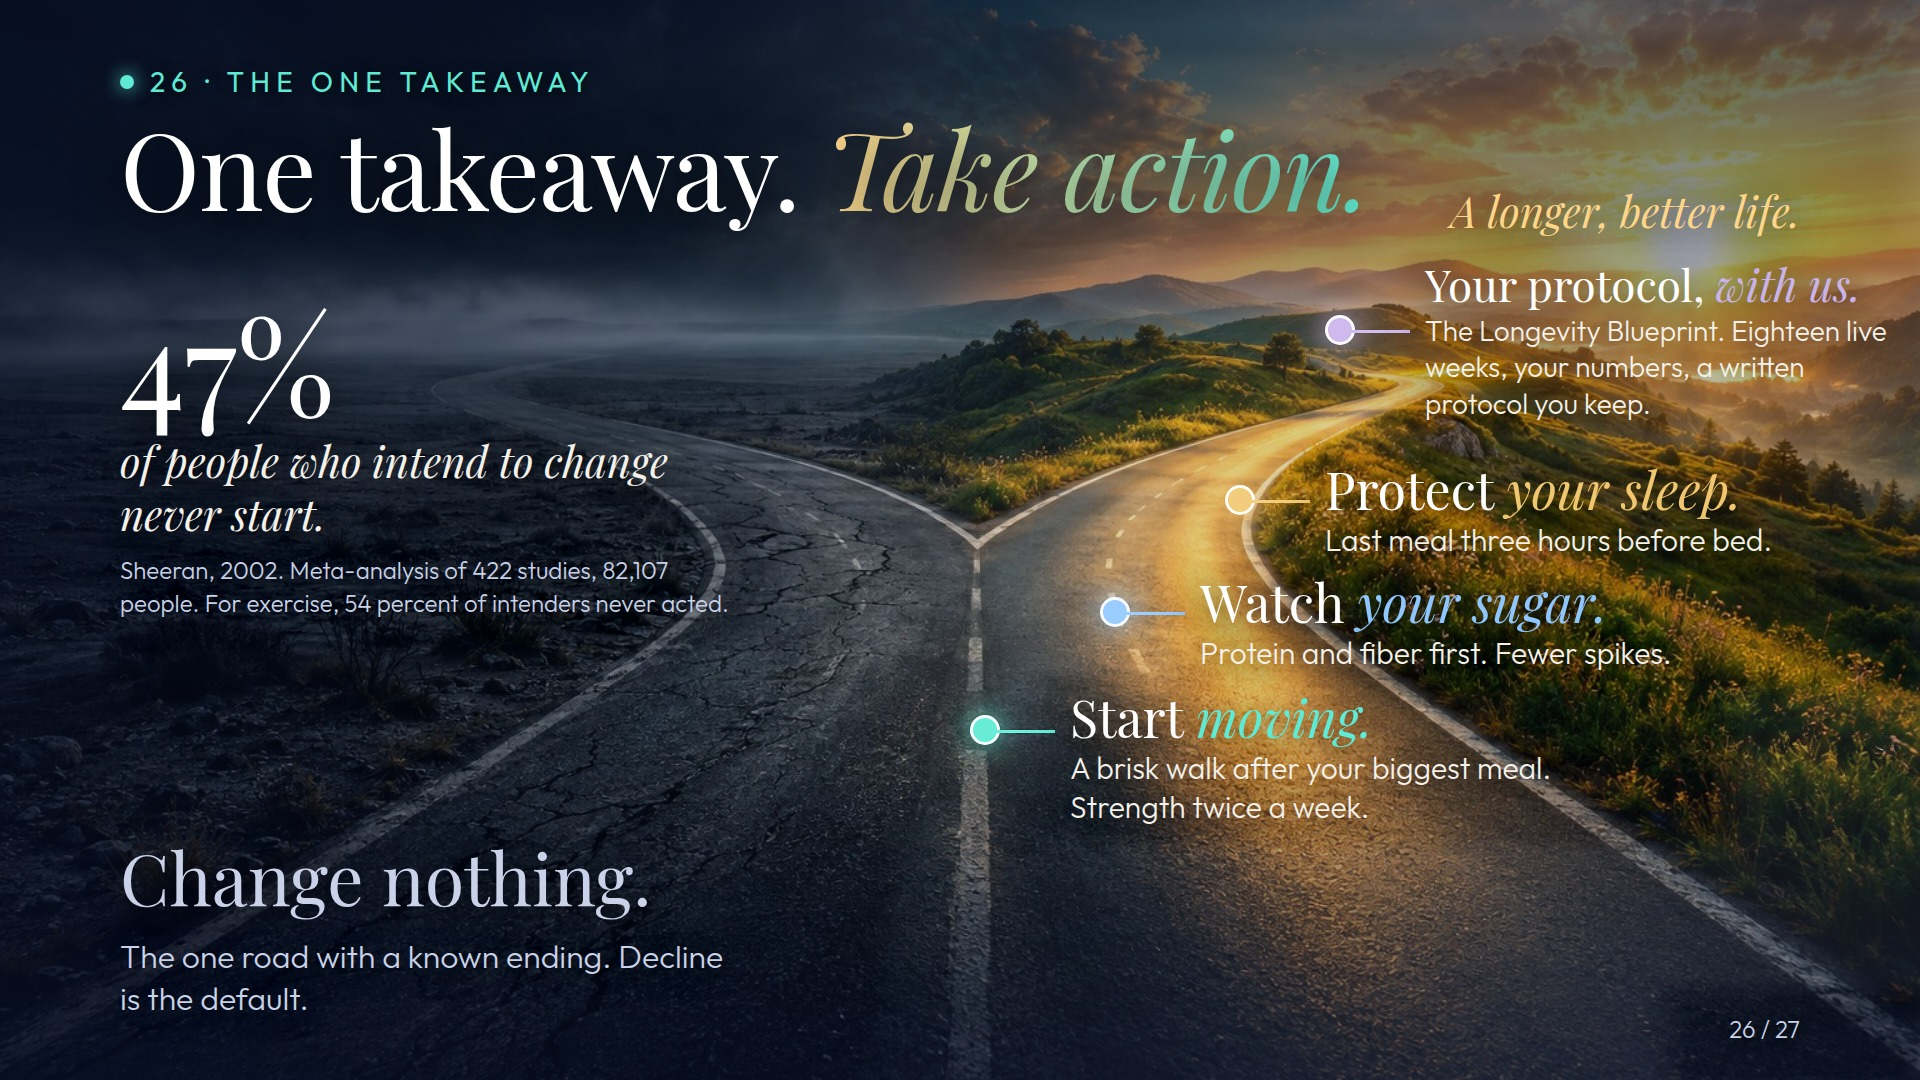
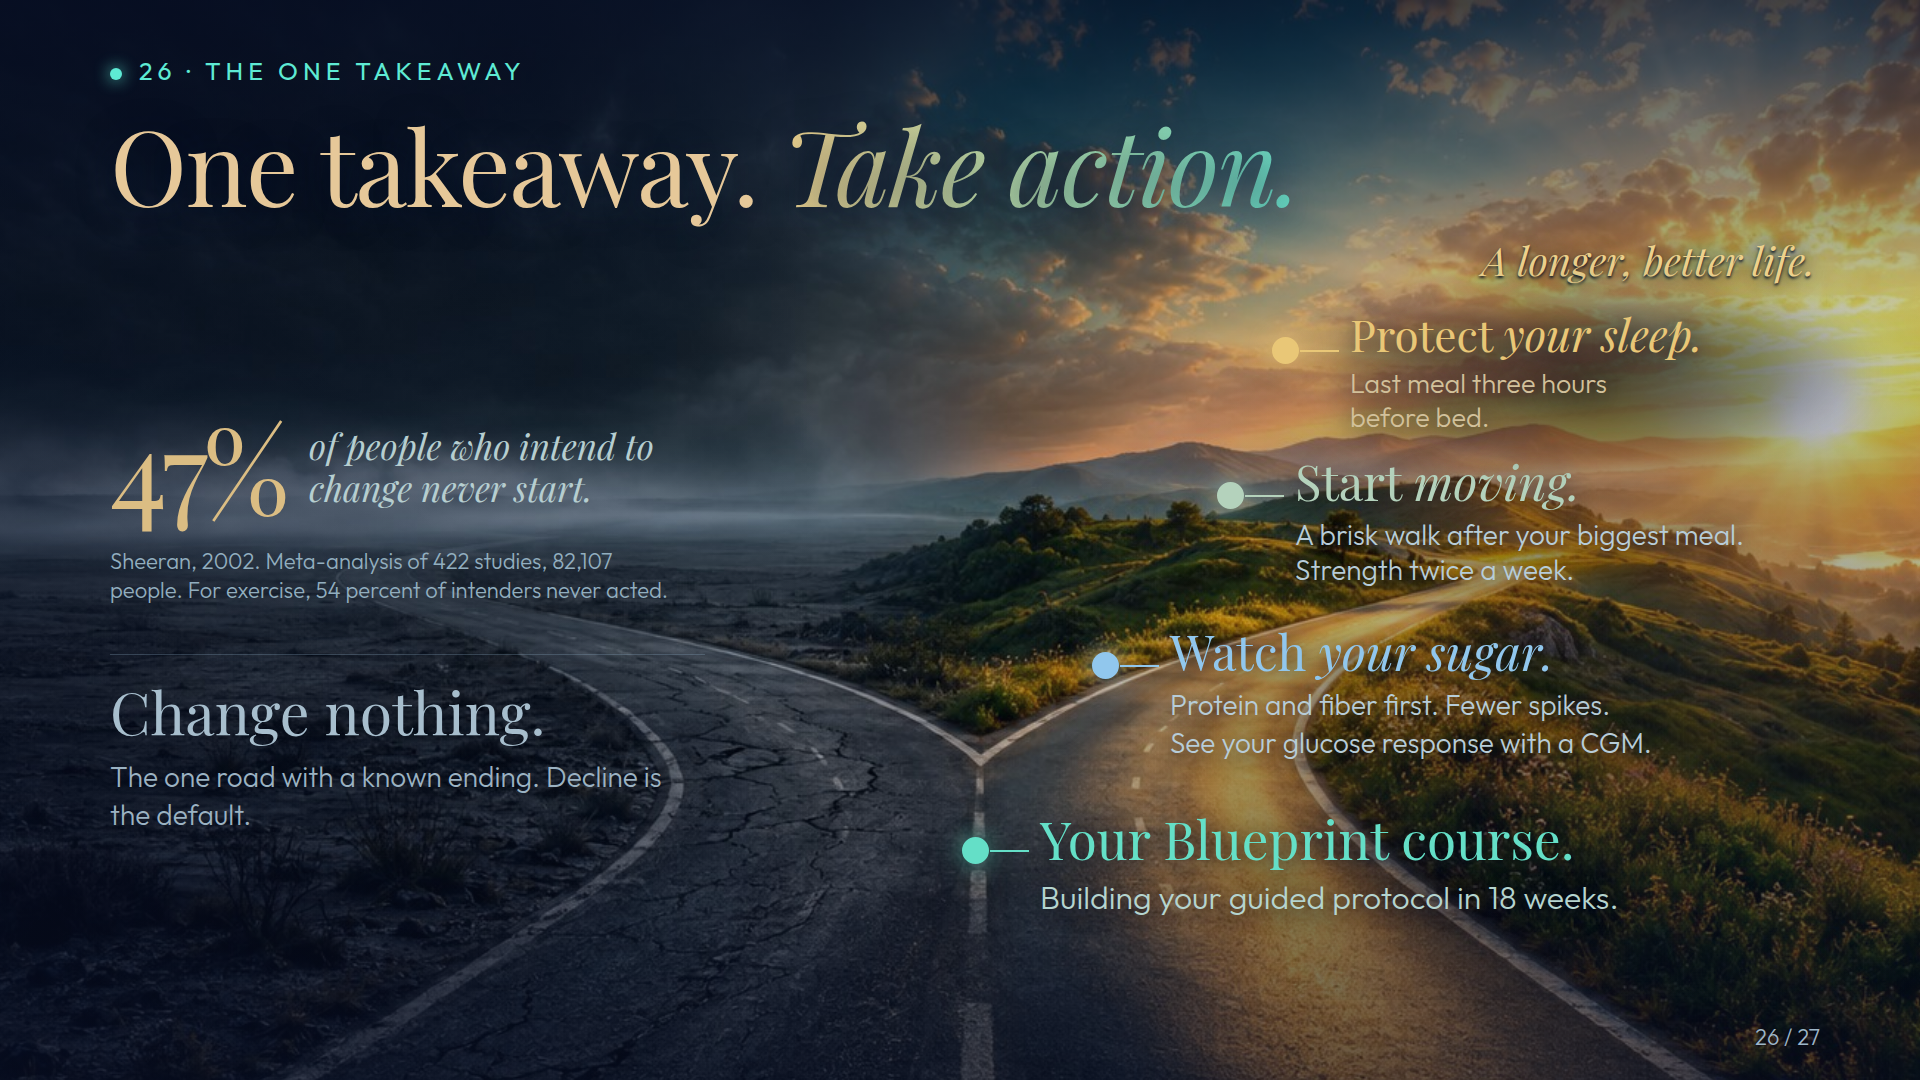
Refine final slide: Blueprint first, CGM, colored type and closer fork

diff --git a/slide-canvas/julie/index.html b/slide-canvas/julie/index.html
@@ -59,14 +59,14 @@ textarea:focus{outline:none;border-color:#006EFF;box-shadow:0 0 0 3px rgba(0,110
 <aside class="note"><label for="c18">Your comment on slide 18</label><textarea id="c18" data-n="18" data-t="You don&#x27;t need a lab. You need a notebook." placeholder="Type here. It saves as you type."></textarea><div class="saved" id="v18"></div></aside></section><section class="slot" id="s19"><div class="left"><div class="num">19</div><h2>Test. Then buy.</h2><img class="main" src="../images-logo/github-round-10-25.jpg" alt=""><p class="why">The three tests to ask your doctor about: Vitamin D, Homocysteine, Red blood cell nutrient levels. Your disclosed list is spoken here.</p><div class="opts"><figure><img src="../images/claude-b-16.jpg" loading="lazy" alt=""><span>Option 2</span></figure><figure><img src="../images/github-deck2-dark-16.jpg" loading="lazy" alt=""><span>Option 3</span></figure></div></div>
 <aside class="note"><label for="c19">Your comment on slide 19</label><textarea id="c19" data-n="19" data-t="Test. Then buy." placeholder="Type here. It saves as you type."></textarea><div class="saved" id="v19"></div></aside></section><section class="slot" id="s20"><div class="left"><div class="num">20</div><h2>That&#x27;s the cake.</h2><img class="main" src="../images-logo/github-round-9-27.jpg" alt=""><p class="why">The whole cake, the only one cut.</p><div class="opts"><figure><img src="../images/github-r7-last-27.jpg" loading="lazy" alt=""><span>Option 2</span></figure></div></div>
 <aside class="note"><label for="c20">Your comment on slide 20</label><textarea id="c20" data-n="20" data-t="That&#x27;s the cake." placeholder="Type here. It saves as you type."></textarea><div class="saved" id="v20"></div></aside></section><section class="slot" id="s21"><div class="left"><div class="num">21</div><h2>Why. Intention. Resources.</h2><img class="main" src="../images-logo/github-deck1-dark-17.jpg" alt=""><p class="why">The three questions, and your close.</p><div class="opts"><figure><img src="../images/github-deck1-light-17.jpg" loading="lazy" alt=""><span>Option 2</span></figure><figure><img src="../images/claude-b-17.jpg" loading="lazy" alt=""><span>Option 3</span></figure></div></div>
-<aside class="note"><label for="c21">Your comment on slide 21</label><textarea id="c21" data-n="21" data-t="Why. Intention. Resources." placeholder="Type here. It saves as you type."></textarea><div class="saved" id="v21"></div></aside></section><section class="slot" id="s22"><div class="left"><div class="num">22</div><h2>One takeaway. Take action.</h2><img class="main" src="additional-take-action-20261026.png" alt="One takeaway. Take action."><p class="why">Additional closing slide. Original wording preserved.</p></div><aside class="note"><label for="c22">Your comment on slide 22</label><textarea id="c22" data-n="22" data-t="One takeaway. Take action." placeholder="Type here. It saves as you type."></textarea><div class="saved" id="v22"></div></aside></section><div class="coming"><h3>Still to be built</h3><p class="why" style="margin-top:0;margin-bottom:10px">Two beats from the script are not on a slide yet and will be added in the next round:</p><ul><li>The sauna, your one piece of icing, as its own frame</li><li>It&#x27;s your life. Live it well., the end card for your close</li></ul></div>
+<aside class="note"><label for="c21">Your comment on slide 21</label><textarea id="c21" data-n="21" data-t="Why. Intention. Resources." placeholder="Type here. It saves as you type."></textarea><div class="saved" id="v21"></div></aside></section><section class="slot" id="s22"><div class="left"><div class="num">22</div><h2>One takeaway. Take action.</h2><img class="main" src="additional-take-action-20261026.png?v=blueprint-cgm" alt="One takeaway. Take action."><p class="why">Closing slide: Blueprint, sugar and CGM, movement, then sleep.</p></div><aside class="note"><label for="c22">Your comment on slide 22</label><textarea id="c22" data-n="22" data-t="One takeaway. Take action." placeholder="Type here. It saves as you type."></textarea><div class="saved" id="v22"></div></aside></section><div class="coming"><h3>Still to be built</h3><p class="why" style="margin-top:0;margin-bottom:10px">Two beats from the script are not on a slide yet and will be added in the next round:</p><ul><li>The sauna, your one piece of icing, as its own frame</li><li>It&#x27;s your life. Live it well., the end card for your close</li></ul></div>
 </div>
 <button id="send" class="btn p" onclick="sendAll()">Send my comments</button>
 <div id="lb" onclick="this.classList.remove('on')"><img id="lbimg" src="" alt=""><div class="x">Close</div></div>
 <div id="play"><img id="pimg" src="" alt=""><div class="x" onclick="stopPlay()">Close, Esc</div><div class="c" id="pc"></div></div>
 <script>
 document.querySelectorAll('.opts img').forEach(im=>{im.loading='eager';im.removeAttribute('disabled');});
-const P=["../images-logo/github-deck2-dark-01.jpg","../images-logo/added-why-light.jpg","../images-logo/github-r7-last-06.jpg","../images-logo/github-deck2-dark-04.jpg","../images-logo/github-r4-v1-05.jpg","../images-logo/github-round-9-11.jpg","../images-logo/github-round-10-12.jpg","../images-logo/claude-b-07.jpg","../images-logo/claude-b-08.jpg","../images-logo/github-round-10-15.jpg","../images-logo/github-r6-v2-10.jpg","../images-logo/github-round-10-17.jpg","../images-logo/github-deck2-dark-11.jpg","../images-logo/github-r7-last-19.jpg","../images-logo/github-deck2-dark-13.jpg","../images-logo/claude-b-14.jpg","../images-logo/github-deck2-light-15.jpg","../images-logo/github-round-10-24.jpg","../images-logo/github-round-10-25.jpg","../images-logo/github-round-9-27.jpg","../images-logo/github-deck1-dark-17.jpg","additional-take-action-20261026.png"];let k=0;
+const P=["../images-logo/github-deck2-dark-01.jpg","../images-logo/added-why-light.jpg","../images-logo/github-r7-last-06.jpg","../images-logo/github-deck2-dark-04.jpg","../images-logo/github-r4-v1-05.jpg","../images-logo/github-round-9-11.jpg","../images-logo/github-round-10-12.jpg","../images-logo/claude-b-07.jpg","../images-logo/claude-b-08.jpg","../images-logo/github-round-10-15.jpg","../images-logo/github-r6-v2-10.jpg","../images-logo/github-round-10-17.jpg","../images-logo/github-deck2-dark-11.jpg","../images-logo/github-r7-last-19.jpg","../images-logo/github-deck2-dark-13.jpg","../images-logo/claude-b-14.jpg","../images-logo/github-deck2-light-15.jpg","../images-logo/github-round-10-24.jpg","../images-logo/github-round-10-25.jpg","../images-logo/github-round-9-27.jpg","../images-logo/github-deck1-dark-17.jpg","additional-take-action-20261026.png?v=blueprint-cgm"];let k=0;
 const T=[...document.querySelectorAll('textarea')];
 T.forEach(t=>{const key='julie-deck-c'+t.dataset.n;t.value=localStorage.getItem(key)||'';if(t.value)document.getElementById('v'+t.dataset.n).textContent='Saved';t.addEventListener('input',()=>{localStorage.setItem(key,t.value);document.getElementById('v'+t.dataset.n).textContent='Saved';});});
 function sendAll(){const lines=T.filter(t=>t.value.trim()).map(t=>'Slide '+t.dataset.n+', '+t.dataset.t+':\n'+t.value.trim());if(!lines.length){alert('No comments yet. Type into a box next to a slide first.');return;}const body=lines.join('\n\n')+'\n\n'+location.href;navigator.clipboard&&navigator.clipboard.writeText(body).catch(()=>{});location.href='mailto:gitter.omri@gita-agency.com?subject='+encodeURIComponent('Masterclass deck, my comments')+'&body='+encodeURIComponent(body);}

diff --git a/slide-canvas/julie/additional-take-action-source.html b/slide-canvas/julie/additional-take-action-source.html
@@ -1,0 +1,69 @@
+<!doctype html>
+<html lang="en">
+<head>
+<meta charset="utf-8">
+<link href="https://fonts.googleapis.com/css2?family=Outfit:wght@300;400;500&display=swap" rel="stylesheet">
+<style>
+@font-face{font-family:Playfair;src:url(../../deck2/fonts/PlayfairDisplay.ttf)}
+@font-face{font-family:Playfair;font-style:italic;src:url(../../deck2/fonts/PlayfairDisplay-Italic.ttf)}
+@font-face{font-family:Inter;src:url(../../deck2/fonts/Inter.ttf)}
+*{box-sizing:border-box;margin:0;padding:0}
+body{background:#070e24}
+.slide{position:relative;width:1920px;height:1080px;overflow:hidden;font:300 30px/1.3 Outfit,Inter,sans-serif;color:#abc6d5}
+.art{position:absolute;inset:0;background-image:url(../closers/img/act-fork2.jpg);background-size:118% auto;background-position:center top;background-repeat:no-repeat}
+.shade{position:absolute;inset:0;background:linear-gradient(180deg,rgba(7,14,36,.76),rgba(7,14,36,.22) 28%,rgba(7,14,36,.12) 57%,rgba(7,14,36,.62)),linear-gradient(90deg,rgba(7,14,36,.42),transparent 43%)}
+.right-contrast{position:absolute;left:1060px;top:270px;width:860px;height:730px;background:radial-gradient(ellipse at 70% 55%,rgba(7,14,36,.38),transparent 75%)}
+.eye{position:absolute;left:110px;top:55px;color:#5eead4;font-size:25px;font-weight:400;letter-spacing:.2em}
+.eye:before{content:'';display:inline-block;width:12px;height:12px;margin-right:17px;background:#5eead4;border-radius:50%;box-shadow:0 0 16px #5eead4}
+h1{position:absolute;left:110px;top:110px;font:400 104px/1.04 Playfair,serif;letter-spacing:-.015em;color:#e6c899;text-shadow:0 5px 35px #06122baa}
+h1 i{font-weight:400;background:linear-gradient(95deg,#efd08c,#65dac5);background-clip:text;-webkit-background-clip:text;color:transparent}
+.destination{position:absolute;right:105px;top:238px;font:italic 40px/1.1 Playfair,serif;color:#edd18c;text-shadow:0 2px 3px #071326,0 0 20px #071326}
+.left-group{position:absolute;left:110px;top:410px;width:595px}
+.stat-row{display:flex;gap:24px;align-items:center}
+.stat-number{font:400 116px/.98 Playfair,serif;color:#dbbd83;letter-spacing:-.04em}
+.stat-caption{max-width:350px;font:italic 35px/1.2 Playfair,serif;color:#b6ced0}
+.citation{font-size:22px;line-height:1.35;color:#92aebf;margin-top:23px;max-width:575px}
+.inaction{margin-top:48px;padding-top:24px;border-top:1px solid rgba(135,166,190,.3)}
+.inaction h2{font:400 59px/1.1 Playfair,serif;color:#a7becd}
+.inaction p{font-size:28px;line-height:1.35;color:#9bb2c2;margin-top:14px;max-width:575px}
+.waypoint{position:absolute;text-shadow:0 4px 25px rgba(4,13,30,.98)}
+.waypoint h2{font:400 49px/1.07 Playfair,serif}
+.waypoint p{font-size:30px;line-height:1.25;color:#b7ccd8;margin-top:10px}
+.waypoint .below{display:block;margin-top:3px}
+.dot{position:absolute;left:-78px;top:27px;width:27px;height:27px;border-radius:50%;background:var(--accent);border:2px solid var(--accent);box-shadow:0 0 24px color-mix(in srgb,var(--accent) 70%,transparent)}
+.dot:after{content:'';position:absolute;left:26px;top:11px;width:39px;height:2px;background:var(--accent)}
+.course{left:1040px;top:810px;width:780px;--accent:#64dfc7}
+.course h2{color:#64dfc7;font-size:53px}
+.course p{font-size:32px;color:#b5d4cf}
+.sugar{left:1170px;top:625px;width:650px;--accent:#91c7ed}
+.sugar h2{color:#91c7ed}
+.sugar p{font-size:28px}
+.move{left:1295px;top:455px;width:535px;--accent:#b4d2bc}
+.move h2{color:#b4d2bc}
+.move p{font-size:28px}
+.sleep{left:1350px;top:310px;width:480px;--accent:#e9c777;isolation:isolate}
+.sleep:before{content:'';position:absolute;inset:-30px -35px;z-index:-1;background:radial-gradient(ellipse at center,rgba(7,14,36,.68),rgba(7,14,36,.3) 50%,transparent 75%);filter:blur(14px)}
+.sleep h2{color:#e9c777;font-size:44px}
+.sleep p{font-size:27px;color:#d2c19b}
+.pg{position:absolute;right:100px;bottom:28px;font-size:22px;color:#9eb6c8}
+</style>
+</head>
+<body>
+<main class="slide">
+ <div class="art"></div><div class="shade"></div><div class="right-contrast"></div>
+ <div class="eye">26 · THE ONE TAKEAWAY</div>
+ <h1>One takeaway. <i>Take action.</i></h1>
+ <div class="destination">A longer, better life.</div>
+ <section class="left-group">
+  <div class="stat-row"><div class="stat-number">47%</div><div class="stat-caption">of people who intend to change never start.</div></div>
+  <p class="citation">Sheeran, 2002. Meta-analysis of 422 studies, 82,107 people. For exercise, 54 percent of intenders never acted.</p>
+  <div class="inaction"><h2>Change nothing.</h2><p>The one road with a known ending. Decline is the default.</p></div>
+ </section>
+ <section class="waypoint course" data-step="1"><span class="dot"></span><h2>Your Blueprint course.</h2><p>Building your guided protocol in 18 weeks.</p></section>
+ <section class="waypoint sugar" data-step="2"><span class="dot"></span><h2>Watch <i>your sugar.</i></h2><p>Protein and fiber first. Fewer spikes.<span class="below">See your glucose response with a CGM.</span></p></section>
+ <section class="waypoint move" data-step="3"><span class="dot"></span><h2>Start <i>moving.</i></h2><p>A brisk walk after your biggest meal. Strength twice a week.</p></section>
+ <section class="waypoint sleep" data-step="4"><span class="dot"></span><h2>Protect <i>your sleep.</i></h2><p>Last meal three hours<br>before bed.</p></section>
+ <div class="pg">26 / 27</div>
+</main>
+</body>
+</html>
